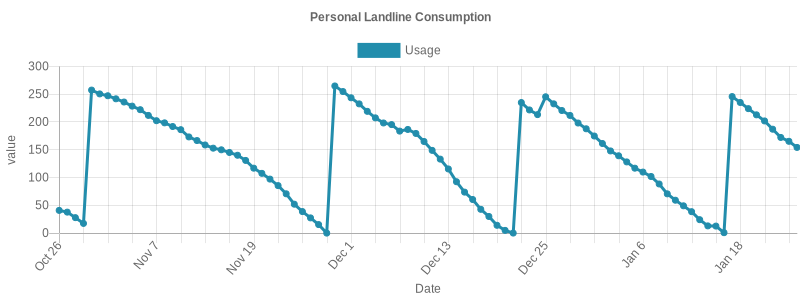
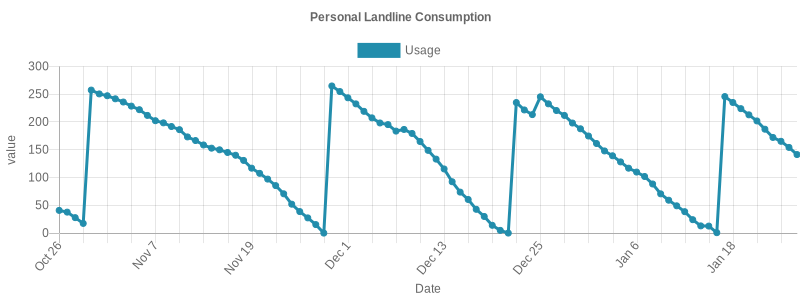
update logs

diff --git a/quota-logs/README.md b/quota-logs/README.md
@@ -90,3 +90,4 @@
 ## Tue Jan 23 2024 00:34:40 GMT+0200|172.15/298
 ## Wed Jan 24 2024 00:36:02 GMT+0200|165.2/250
 ## Thu Jan 25 2024 00:35:42 GMT+0200|154.2/250
+## Fri Jan 26 2024 00:34:48 GMT+0200|141.36/250
